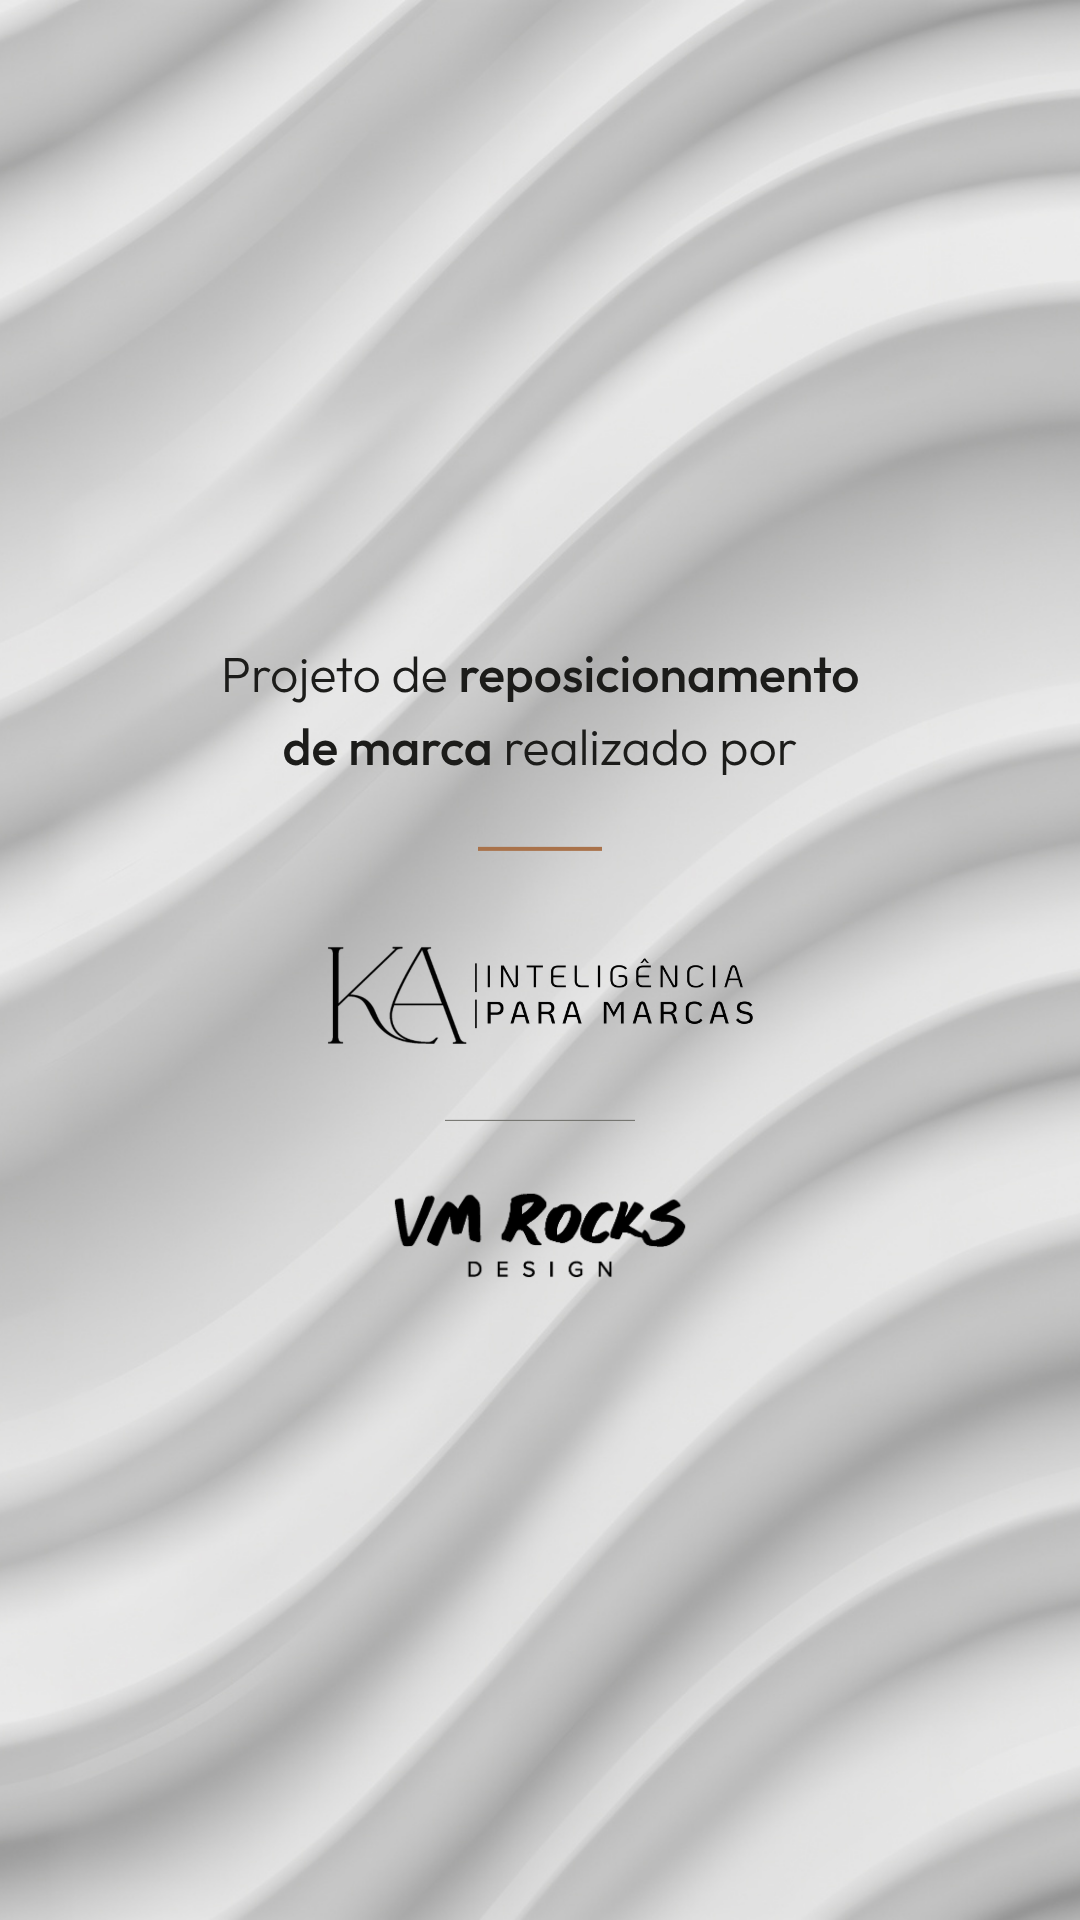
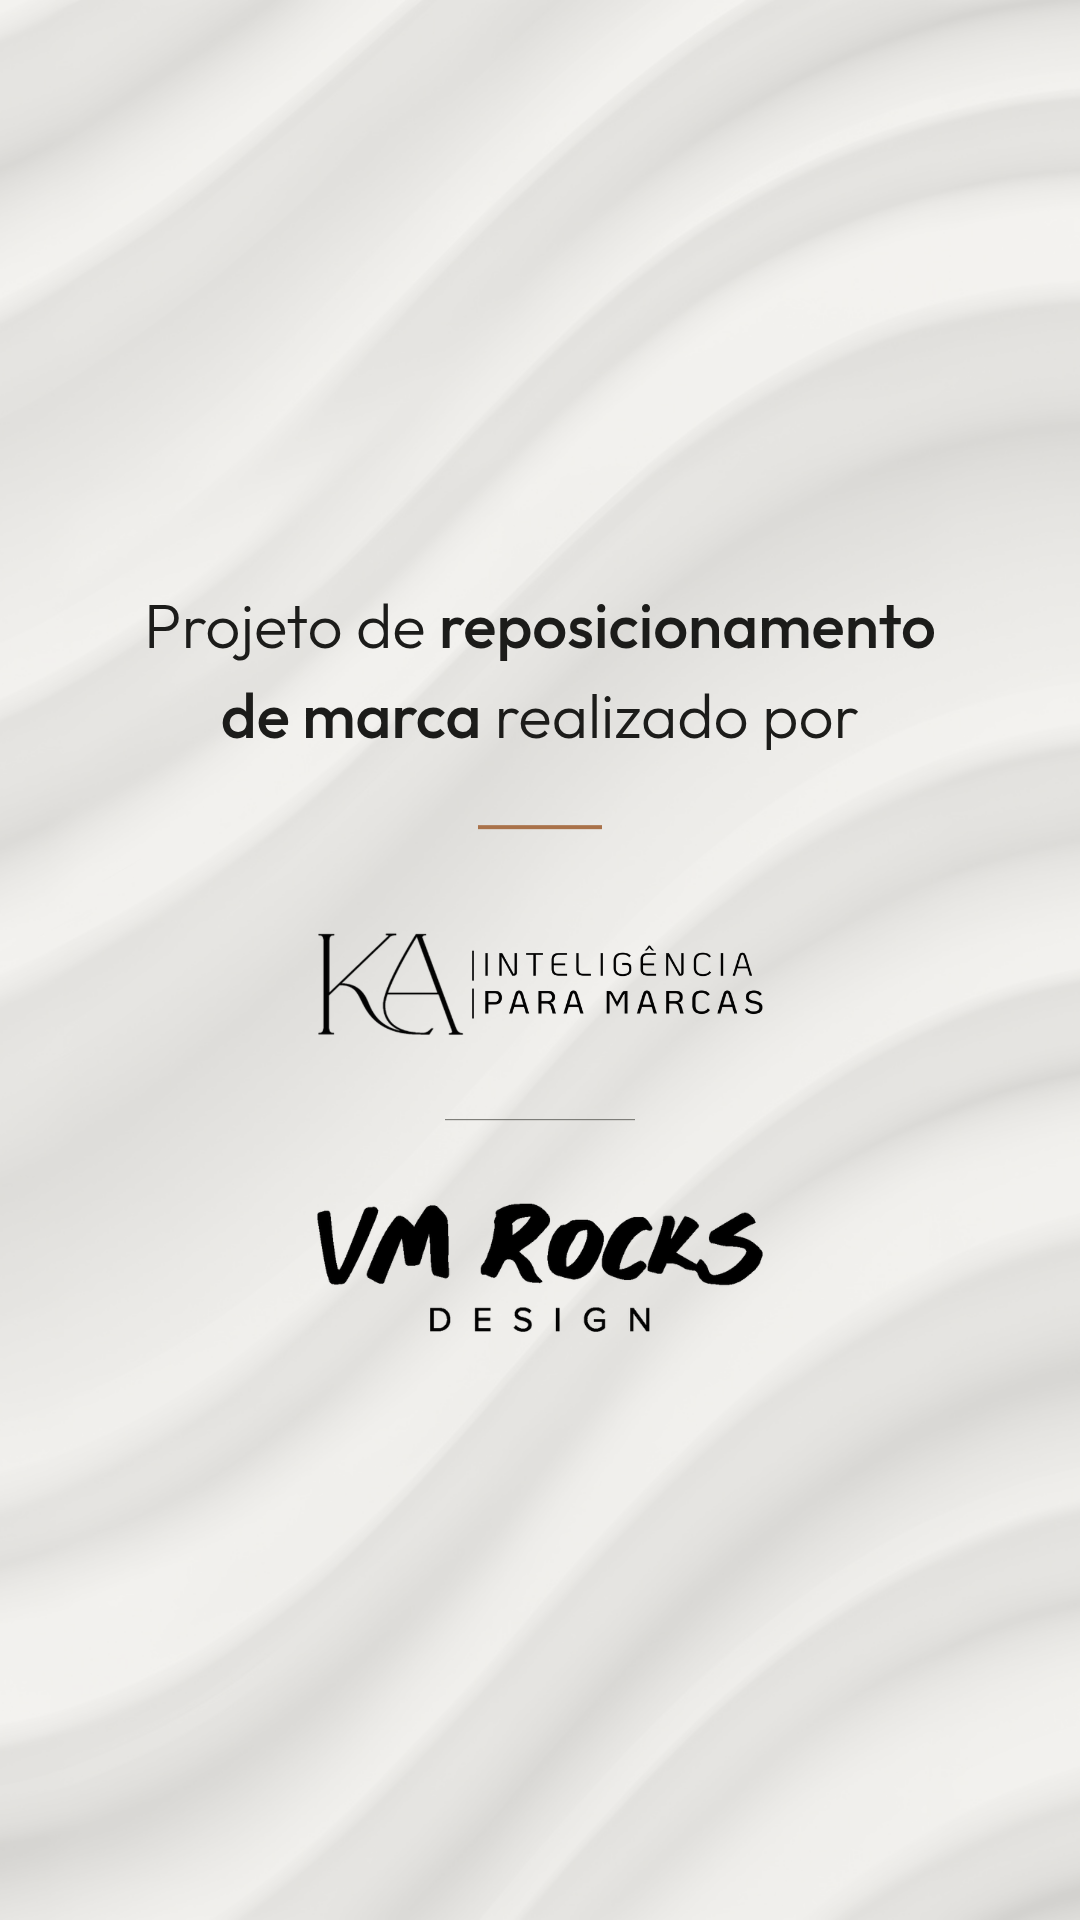
Ajusta a assinatura de projeto: marcas iguais, mais contraste
- KA e VM Rocks na mesma largura (460px). As alturas diferem porque as
  proporcoes dos arquivos diferem; o que se iguala e a largura
- frase de 50 para 62px
- novo .slide--veu: veu de papel sobre a textura, que recua a onda sem
  abrir mao dela. A amplitude do relevo sob o conteudo cai de ~60 para 26
  niveis, e marca e texto ganham a presenca pedida

O veu vale para peca de conteudo escasso, como assinatura de video e capa
de story. Em slide de deck nao se usa: la o conteudo ja ocupa a pagina.

Claude-Session: https://claude.ai/code/session_015YunUeG4gdRR6urYHdkvAD

diff --git a/sistema/sistema.css b/sistema/sistema.css
@@ -58,6 +58,19 @@ html, body {
   z-index: 0;
 }
 
+/* Veu de papel sobre a textura. A onda continua la, mas recuada, para que
+   marca e texto ganhem contraste. Serve pecas em que o conteudo e pouco e
+   precisa dominar — assinatura de video, capa de story. Num slide de deck
+   nao se usa: la o conteudo ja ocupa a pagina. */
+.slide--veu::after {
+  content: "";
+  position: absolute;
+  inset: 0;
+  background: var(--cor-papel);
+  opacity: 0.62;
+  z-index: 0;
+}
+
 /* Todo conteudo vive acima da textura. */
 .slide > * { position: relative; z-index: 1; }
 
@@ -711,7 +724,7 @@ html, body {
 
 .assinatura-projeto__frase {
   margin: 0;
-  font-size: 50px;
+  font-size: 62px;
   font-weight: var(--peso-light);
   line-height: 1.45;
   color: var(--cor-tinta);
@@ -729,9 +742,12 @@ html, body {
   margin: 64px 0 0;
 }
 
+/* As duas marcas na mesma largura: a peca e de parceria, nao de hierarquia.
+   As alturas diferem porque as proporcoes dos arquivos diferem — o que se
+   iguala aqui e a largura, como pedido. */
 .assinatura-projeto__ka {
-  width: 440px;
-  margin-top: 88px;
+  width: 460px;
+  margin-top: 96px;
 }
 
 .assinatura-projeto__fio {
@@ -739,9 +755,9 @@ html, body {
   height: var(--fio);
   background: var(--cor-tinta-media);
   border: 0;
-  margin: 68px 0;
+  margin: 76px 0;
 }
 
 .assinatura-projeto__cliente {
-  width: 300px;
+  width: 460px;
 }

diff --git a/arte/story-assinatura-projeto.html b/arte/story-assinatura-projeto.html
@@ -22,7 +22,7 @@
      Cada elemento e uma camada com classe propria — e assim que a animacao
      entra depois, sem remontar o layout.
      ===================================================================== -->
-<section class="slide slide--story slide--textura">
+<section class="slide slide--story slide--textura slide--veu">
   <div class="assinatura-projeto">
 
     <p class="assinatura-projeto__frase" data-camada="frase">
